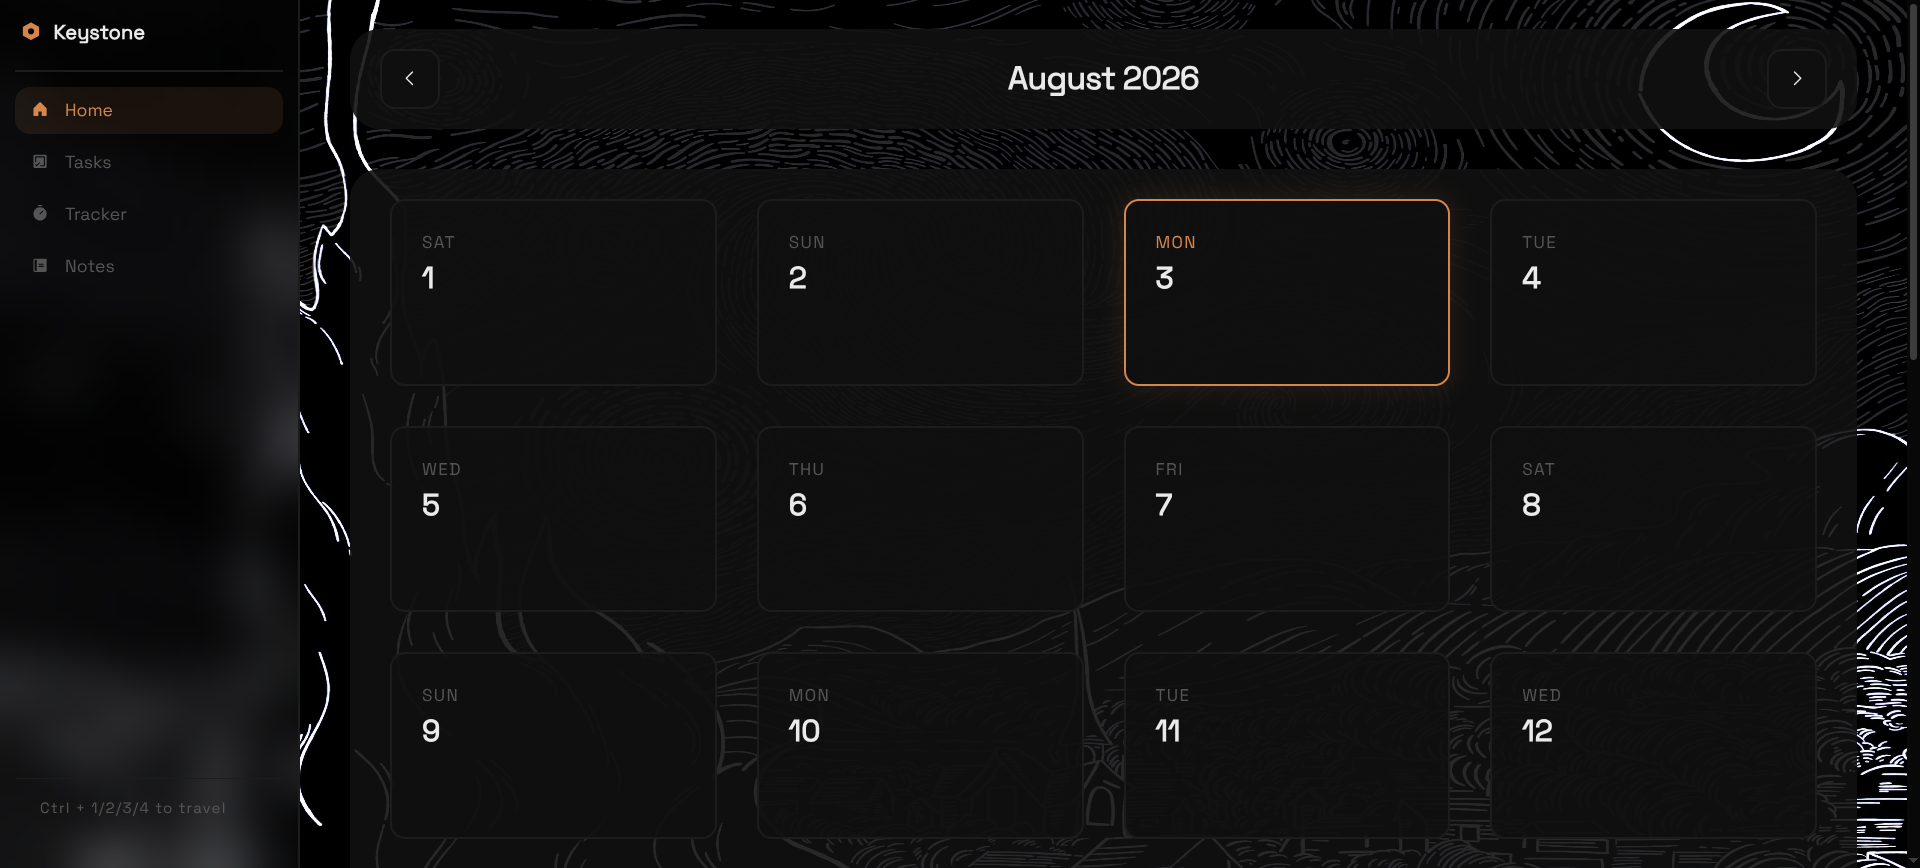
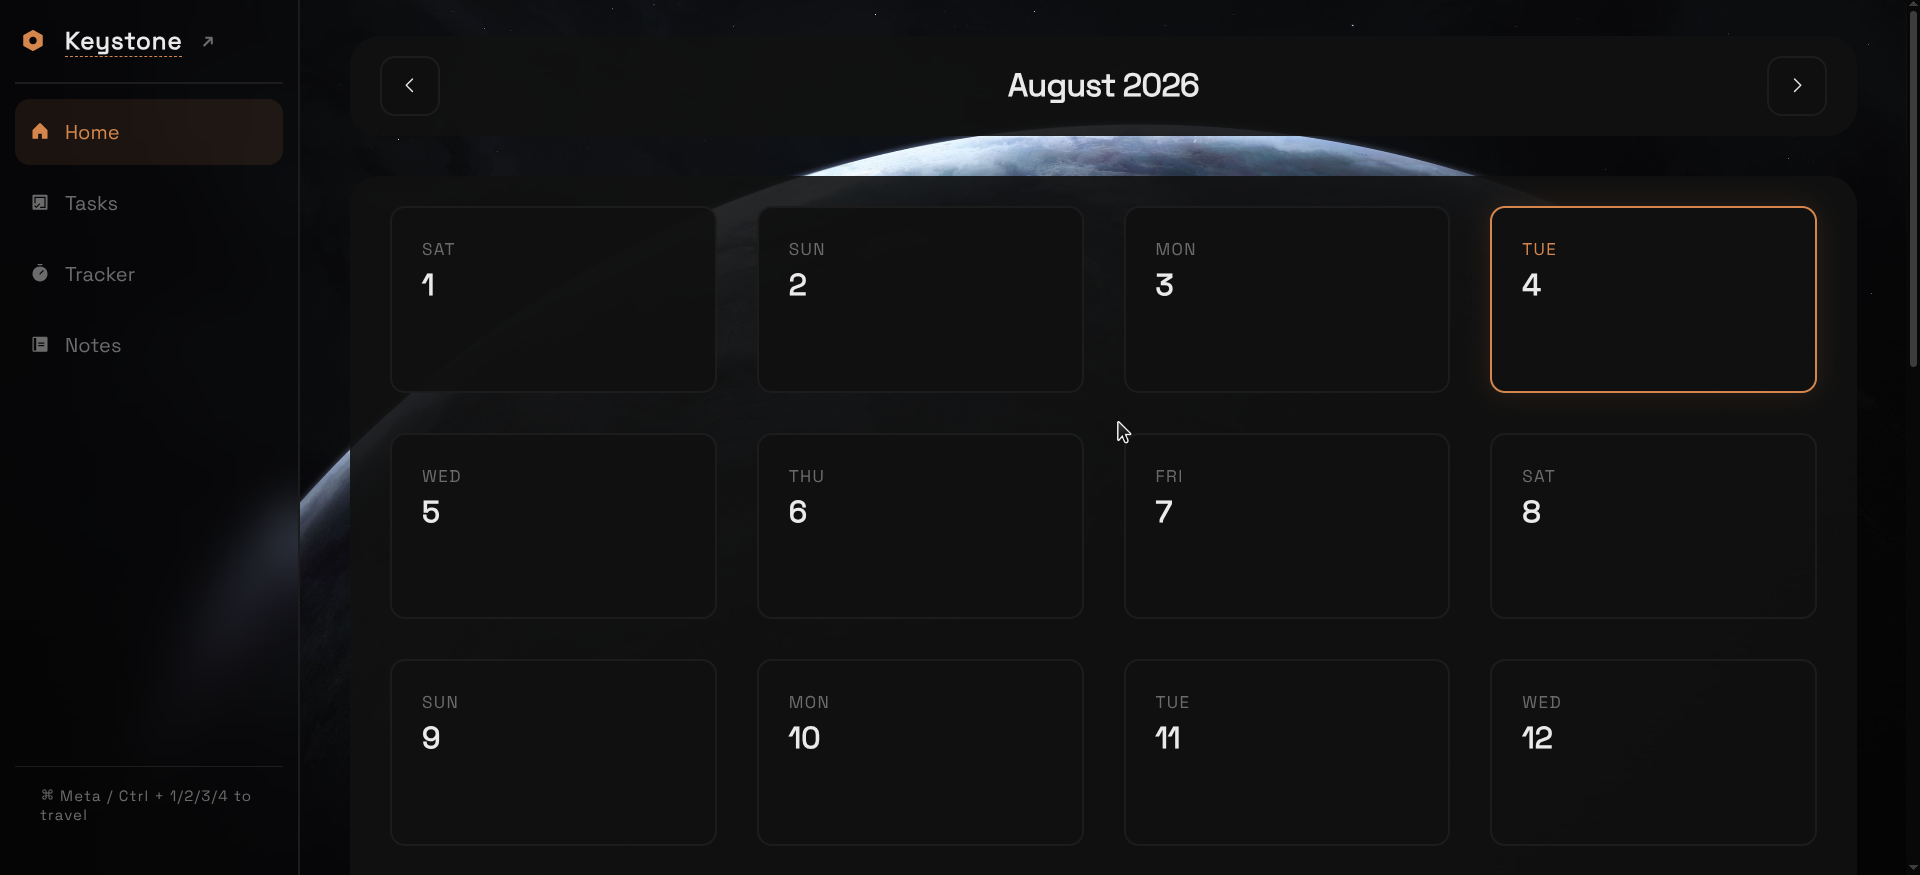
feat: css tweaks to improve UX, better wallpaper

diff --git a/css/style.css b/css/style.css
@@ -27,11 +27,12 @@
   margin: 0;
   padding: 0;
   box-sizing: border-box;
+  scrollbar-color: #3c3c3c var(--bg);
+  scrollbar-width: thin;
 }
 
-* {
-    scrollbar-color: #3c3c3c var(--bg);
-    scrollbar-width: thin;
+::selection {
+  background: var(--accent-glow);
 }
 
 body {
@@ -47,10 +48,11 @@ body::before {
   position: fixed;
   top: 0; left: 0;
   width: 100%; height: 100%;
-  background: #1a1a1a url('../assets/wallpaper.jpg') center / cover no-repeat;
+  background: var(--bg) url('../assets/wallpaper.jpg') center / cover no-repeat;
   pointer-events: none;
   z-index: -1;
 }
+
 .layout {
   display: flex;
   min-height: 100vh;
@@ -83,13 +85,21 @@ body::before {
 .brand {
   display: flex;
   align-items: center;
-  gap: 10px;
-  font-size: 1rem;
-  font-weight: 700;
+  gap: 1rem;
+  letter-spacing: 0.05rem;
+  font-size: 1.2rem;
+  font-weight: bold;
 }
 
 .brand i {
   color: var(--accent);
+}
+
+.brand a {
+  color: var(--fg);
+  text-underline-offset: 0.35rem;
+  text-decoration: underline dashed var(--accent) 1px;
+
 }
 
 .sidebar-nav {
@@ -111,16 +121,18 @@ body::before {
   display: flex;
   align-items: center;
   gap: 0.75rem;
-  padding: 0.625rem 0.75rem;
+  padding: 1rem 0.75rem;
   border-radius: 12px;
   color: var(--muted);
-  font-size: 0.88rem;
+  font-size: 1rem;
   transition: all 0.2s;
+  text-decoration: none !important;
 
   & i {
     width: 1rem;
     text-align: center;
   }
+
 }
 
 .nav-item:hover {
@@ -297,6 +309,9 @@ body::before {
   .calendar-day { padding: 16px; }
 }
 
-a {
-  text-decoration: none;
+.a-arrow {
+  color: var(--muted);
+  display: inline-block;
+  font-size: 0.75em;
+  line-height: 1;
 }

diff --git a/index.html b/index.html
@@ -20,7 +20,10 @@
         <div class="sidebar-header">
             <div class="brand">
                 <i class="ph-fill ph-nut"></i>
-                <span>Keystone</span>
+                <a class="brand" href="https://github.com/snowlock-dev/keystone" target="_blank" rel="noopener noreferrer">
+                    <span>Keystone</span> 
+                </a>
+                <span class="a-arrow">↗</span>
             </div>
         </div>
 

diff --git a/README.md b/README.md
@@ -17,4 +17,4 @@ It tries to combine all of the features I love from different apps/websites, whi
 
 ## Credits
 
-* `assets/wallpaper.jpg` from: [Wallhaven](https://wallhaven.cc/w/yqekql)
+* `assets/wallpaper.jpg`(Default Wallpaper) from: [Wallhaven](https://wallhaven.cc/w/nm6o2k)
